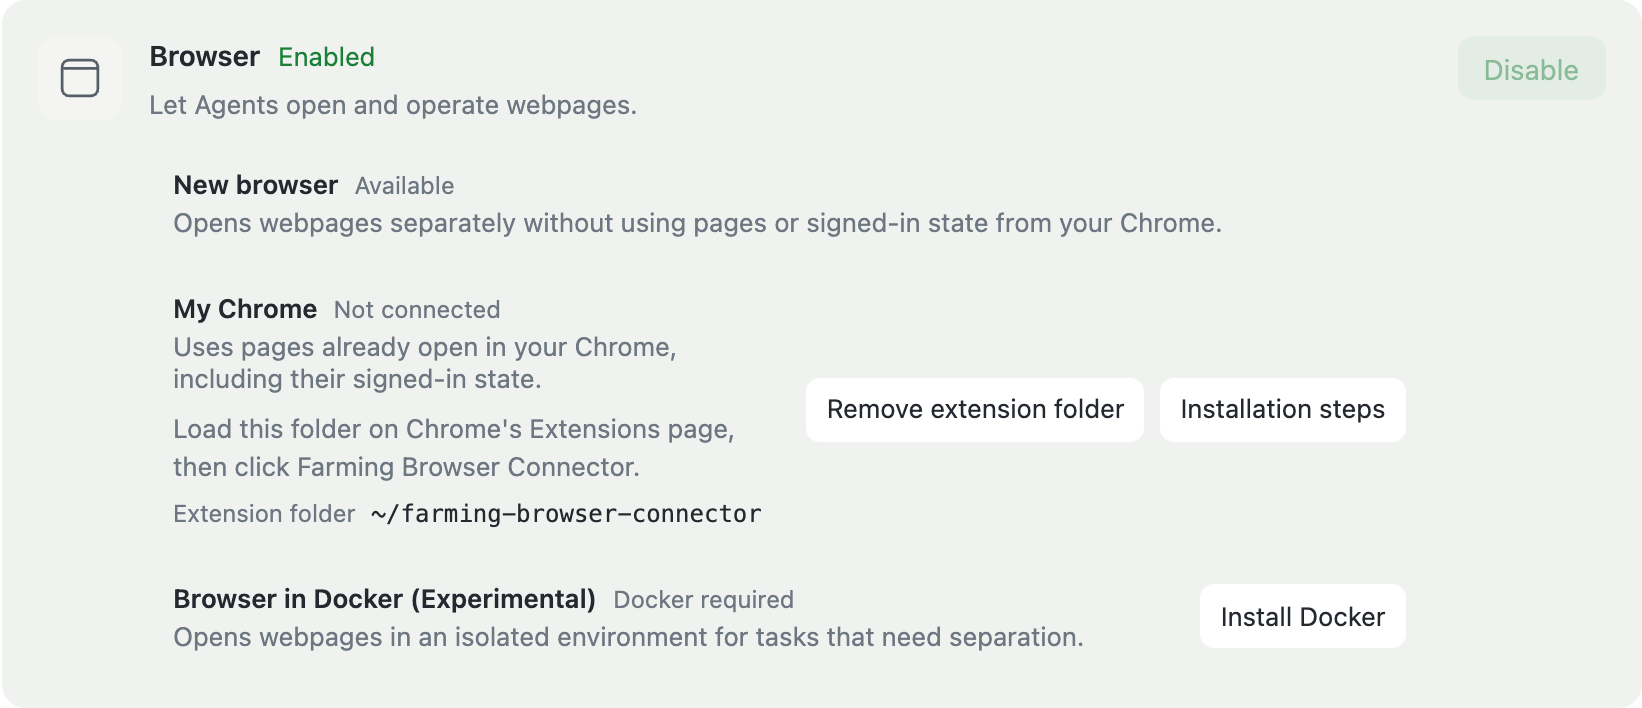
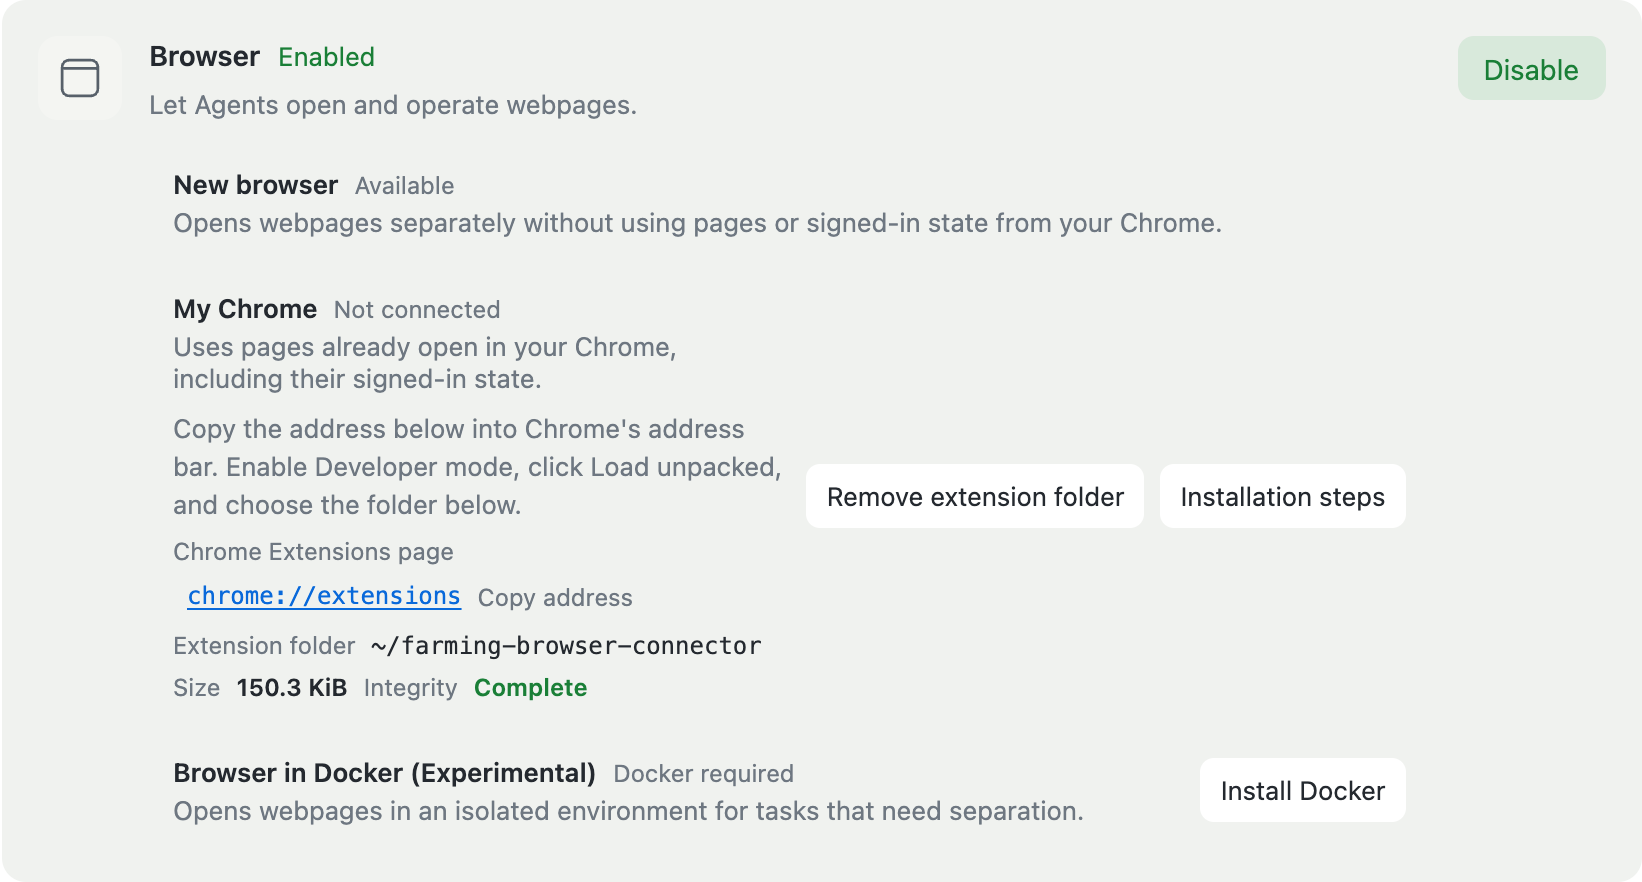
fix(browser): restore existing Chrome setup details

diff --git a/src/components/code/PluginsPanel.tsx b/src/components/code/PluginsPanel.tsx
@@ -131,6 +131,14 @@ const FARMING_BROWSER_DOCS_URL: Record<UiLanguage, string> = {
   en: 'https://zhuwenzhuang.github.io/farming/en/browser/existing-chrome',
   zh: 'https://zhuwenzhuang.github.io/farming/cn/browser/existing-chrome',
 }
+const CHROME_EXTENSIONS_ADDRESS = 'chrome://extensions'
+
+function formatByteSize(value: number | undefined) {
+  if (!Number.isFinite(value) || value === undefined || value < 0) return '—'
+  if (value < 1024) return `${value} B`
+  if (value < 1024 * 1024) return `${(value / 1024).toFixed(1)} KiB`
+  return `${(value / (1024 * 1024)).toFixed(1)} MiB`
+}
 
 async function fetchAgentSettings(url: string, init?: RequestInit) {
   const controller = new AbortController()
@@ -261,9 +269,20 @@ function pluginCopy(language: UiLanguage) {
     removeConnectorDirectory: zh ? '删除插件目录' : 'Remove extension folder',
     connectorGuide: zh ? '安装步骤说明' : 'Installation steps',
     connectorDirectory: zh ? '插件目录' : 'Extension folder',
+    connectorExtensionsPage: zh ? 'Chrome 扩展程序页' : 'Chrome Extensions page',
+    connectorCopyAddress: zh ? '复制地址' : 'Copy address',
+    connectorAddressCopied: zh ? '已复制' : 'Copied',
+    connectorCopyFailed: zh ? '地址复制失败，请手动复制。' : 'Failed to copy the address. Copy it manually.',
+    connectorSize: zh ? '大小' : 'Size',
+    connectorIntegrity: zh ? '完整性' : 'Integrity',
+    connectorIntegrityValue: {
+      valid: zh ? '完整' : 'Complete',
+      missing: zh ? '未准备' : 'Not prepared',
+      invalid: zh ? '异常' : 'Invalid',
+    },
     connectorReadyHint: zh
-      ? '在 Chrome 扩展程序页加载这个目录，然后点击 Farming Browser Connector。'
-      : 'Load this folder on Chrome\'s Extensions page, then click Farming Browser Connector.',
+      ? '复制下面地址并粘贴到 Chrome 地址栏。开启“开发者模式”，点击“加载已解压的扩展程序”，选择下面目录。'
+      : 'Copy the address below into Chrome\'s address bar. Enable Developer mode, click Load unpacked, and choose the folder below.',
     preparingConnector: zh ? '正在准备目录…' : 'Preparing folder…',
     removingConnector: zh ? '正在删除目录…' : 'Removing folder…',
     connectorPrepareFailed: zh ? '连接扩展准备失败' : 'Failed to prepare the connector extension',
@@ -626,6 +645,7 @@ export function PluginsPanel({
   const [browserExtensionInfo, setBrowserExtensionInfo] = useState<BrowserExtensionCapability>(
     capability?.extension ?? {},
   )
+  const [chromeExtensionsAddressCopied, setChromeExtensionsAddressCopied] = useState(false)
   const browserExtensionConnectedRef = useRef(capability?.extension?.connected === true)
   const [agentGroups, setAgentGroups] = useState<AgentExtensionGroup[]>([])
   const [agentGroupsLoading, setAgentGroupsLoading] = useState(true)
@@ -1071,6 +1091,17 @@ export function PluginsPanel({
     }
   }
 
+  const copyChromeExtensionsAddress = async () => {
+    try {
+      if (!navigator.clipboard) throw new Error(copy.connectorCopyFailed)
+      await navigator.clipboard.writeText(CHROME_EXTENSIONS_ADDRESS)
+      setChromeExtensionsAddressCopied(true)
+      window.setTimeout(() => setChromeExtensionsAddressCopied(false), 1600)
+    } catch {
+      setError(copy.connectorCopyFailed)
+    }
+  }
+
   const saveComputerSettings = async (patch: {
     computerCompatibilityMode?: boolean
     computerExtensionEnabled?: boolean
@@ -1398,11 +1429,32 @@ export function PluginsPanel({
                     <div className="code-plugin-browser-connector-details" data-testid="browser-connector-details">
                       <small>{copy.connectorReadyHint}</small>
                       <div>
+                        <span>{copy.connectorExtensionsPage}</span>
+                        <button
+                          type="button"
+                          className="code-plugin-browser-copy-address"
+                          onClick={() => void copyChromeExtensionsAddress()}
+                        >
+                          <code>{CHROME_EXTENSIONS_ADDRESS}</code>
+                          <span>{chromeExtensionsAddressCopied
+                            ? copy.connectorAddressCopied
+                            : copy.connectorCopyAddress}</span>
+                        </button>
+                      </div>
+                      <div>
                         <span>{copy.connectorDirectory}</span>
                         <code
                           data-testid="browser-connector-directory"
                           title={browserExtensionInfo.extensionPath}
                         >{browserExtensionInfo.extensionPath}</code>
+                      </div>
+                      <div className="code-plugin-browser-connector-metadata">
+                        <span>{copy.connectorSize}</span>
+                        <strong>{formatByteSize(browserExtensionInfo.sizeBytes)}</strong>
+                        <span>{copy.connectorIntegrity}</span>
+                        <strong className={browserExtensionInfo.integrity === 'valid' ? 'valid' : 'invalid'}>
+                          {copy.connectorIntegrityValue[browserExtensionInfo.integrity ?? 'invalid']}
+                        </strong>
                       </div>
                     </div>
                   ) : null}

diff --git a/tests/e2e/browser-resources.spec.ts b/tests/e2e/browser-resources.spec.ts
@@ -1264,6 +1264,7 @@ test('shows concurrent Browser sources and existing Chrome setup', async ({ page
     installed: connectorDirectoryPrepared,
     connected: false,
     extensionPath: '/Users/farming/farming-browser-connector',
+    sizeBytes: 196_608,
     integrity: connectorDirectoryPrepared ? 'valid' : 'missing',
   })
   await page.route(/\/api\/browsers\/extension(?:\?.*)?$/, async route => {
@@ -1320,10 +1321,26 @@ test('shows concurrent Browser sources and existing Chrome setup', async ({ page
   ).__connectorGuideOpened)).toBe(0)
   const removeConnector = myChrome.getByRole('button', { name: 'Remove extension folder' })
   await expect(removeConnector).toBeEnabled()
-  await expect(connectorDetails).toContainText(
-    'Load this folder on Chrome\'s Extensions page, then click Farming Browser Connector.',
-  )
+  await expect(connectorDetails).toContainText('Copy the address below into Chrome\'s address bar')
+  await expect(connectorDetails).toContainText('Chrome Extensions pagechrome://extensionsCopy address')
   await expect(connectorDetails).toContainText('Extension folder/Users/farming/farming-browser-connector')
+  await expect(connectorDetails).toContainText('Size192.0 KiBIntegrityComplete')
+  await page.evaluate(() => {
+    Object.assign(window, { __copiedChromeExtensionsAddress: '' })
+    Object.defineProperty(navigator, 'clipboard', {
+      configurable: true,
+      value: {
+        writeText: async (value: string) => {
+          Object.assign(window, { __copiedChromeExtensionsAddress: value })
+        },
+      },
+    })
+  })
+  await myChrome.getByRole('button', { name: 'chrome://extensions Copy address' }).click()
+  await expect(myChrome.getByRole('button', { name: 'chrome://extensions Copied' })).toBeVisible()
+  await expect.poll(() => page.evaluate(() => (
+    window as typeof window & { __copiedChromeExtensionsAddress?: string }
+  ).__copiedChromeExtensionsAddress)).toBe('chrome://extensions')
   await expect(myChrome.getByRole('link', { name: 'Installation steps' })).toBeVisible()
   const screenshot = testInfo.outputPath('browser-sources.png')
   await pluginsPanel.screenshot({ path: screenshot })

diff --git a/backend/tests/test-browser-chrome-extension.ts b/backend/tests/test-browser-chrome-extension.ts
@@ -391,6 +391,7 @@ async function run() {
     const initialCapability = relay.capability();
     assert.strictEqual(initialCapability.installed, false);
     assert.strictEqual(initialCapability.integrity, 'missing');
+    assert.ok(initialCapability.sizeBytes > 0);
     assert.strictEqual(fs.existsSync(browserExtensionPath(configDir)), false);
     await relay.init();
     assert.strictEqual(relay.capability().installed, false);
@@ -399,6 +400,7 @@ async function run() {
     assert.strictEqual(capability.installed, true);
     assert.strictEqual(capability.connected, false);
     assert.strictEqual(capability.integrity, 'valid');
+    assert.strictEqual(capability.sizeBytes, initialCapability.sizeBytes);
     assert.strictEqual(capability.extensionPath, path.join(extensionTestRoot, 'farming-browser-connector'));
     assert.strictEqual(browserExtensionPath(configDir), capability.extensionPath);
     assert.strictEqual(

diff --git a/src/styles/plugin.css b/src/styles/plugin.css
@@ -1582,6 +1582,42 @@
   user-select: text;
 }
 
+.code-plugin-browser-copy-address {
+  display: inline-flex;
+  align-items: center;
+  gap: 8px;
+  min-width: 0;
+  padding: 3px 7px;
+  border: 0;
+  border-radius: 6px;
+  color: var(--code-text-subtle);
+  background: var(--code-surface-hover);
+  cursor: pointer;
+}
+
+.code-plugin-browser-copy-address code {
+  color: var(--code-accent);
+  text-decoration: underline;
+  text-underline-offset: 2px;
+}
+
+.code-plugin-browser-copy-address:hover {
+  color: var(--code-text);
+}
+
+.code-plugin-browser-connector-metadata strong {
+  color: var(--code-text);
+  font-size: 12px;
+}
+
+.code-plugin-browser-connector-metadata strong.valid {
+  color: var(--code-success);
+}
+
+.code-plugin-browser-connector-metadata strong.invalid {
+  color: var(--code-danger);
+}
+
 .code-plugin-browser-source-actions {
   display: flex;
   align-items: center;

diff --git a/extensions/browser/frontend/types.ts b/extensions/browser/frontend/types.ts
@@ -49,6 +49,7 @@ export interface BrowserCapability {
   extension?: {
     installed?: boolean
     extensionPath?: string
+    sizeBytes?: number
     integrity?: 'invalid' | 'missing' | 'valid'
     connected?: boolean
     browser?: {

diff --git a/docs/products/code/chrome-extension-browser.md b/docs/products/code/chrome-extension-browser.md
@@ -34,7 +34,8 @@ the Farming-created folder link; it is safe to prepare again later.
 Farming does not create this directory at startup. After the user clicks **Prepare extension folder**, Farming creates
 a visible link to the bundled extension without copying a second code tree. CLI `extension path`
 and `extension status` commands expose the path and connection state. After preparation, the My Chrome row shows
-the folder path and a short next-step hint. Chrome installation and removal still require user confirmation.
+the copyable `chrome://extensions` address, folder path, size, integrity, and a short installation hint. Chrome installation and
+removal still require user confirmation.
 
 Pair only with a trusted Farming instance.
 

diff --git a/docs/products/code/chrome-extension-browser.zh_cn.md b/docs/products/code/chrome-extension-browser.zh_cn.md
@@ -29,7 +29,8 @@ Farming Browser 是浏览器能力；Farming Browser Connector 是安装在 Chro
 
 Farming 不会在启动时创建这个目录。用户点击**准备插件目录**后，Farming 才会在可见目录建立指向
 包内扩展的链接，不会复制第二份代码。CLI 的 `extension path` 和 `extension status` 用于
-查看目录和连接状态。准备完成后，“我的 Chrome”行只显示插件目录和简短的下一步提示。
+查看目录和连接状态。准备完成后，“我的 Chrome”行显示可复制的 `chrome://extensions` 地址、
+插件目录、大小、完整性和简短安装提示。
 安装和删除必须由用户在 Chrome 中确认。
 
 只连接可信的 Farming。
